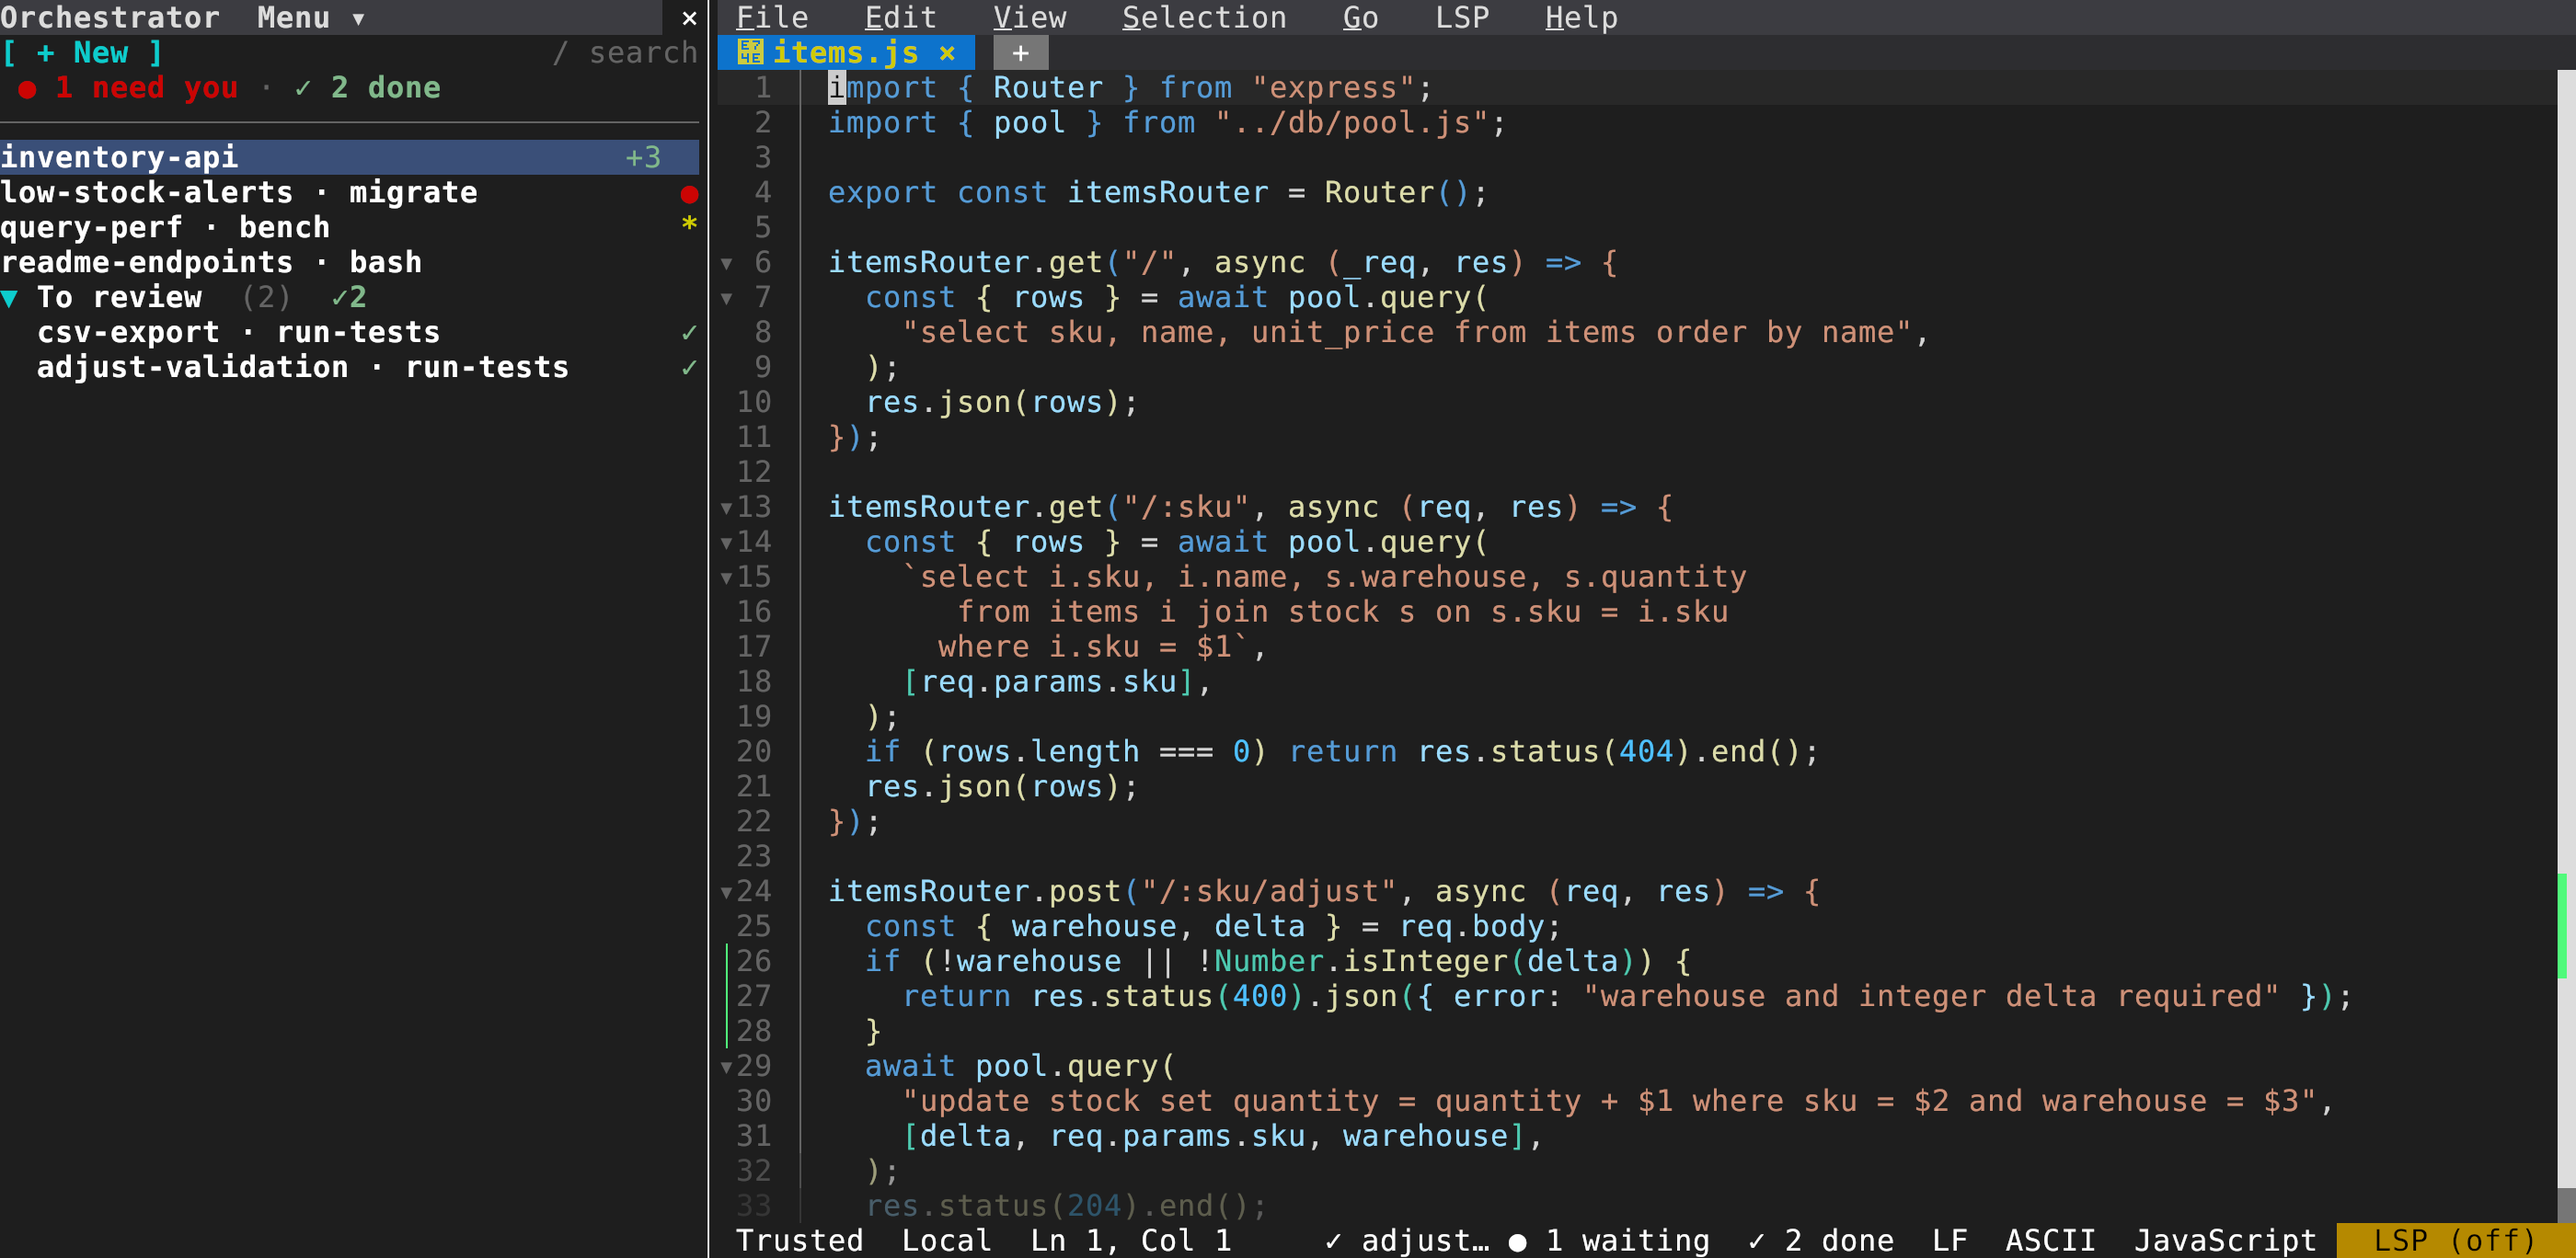
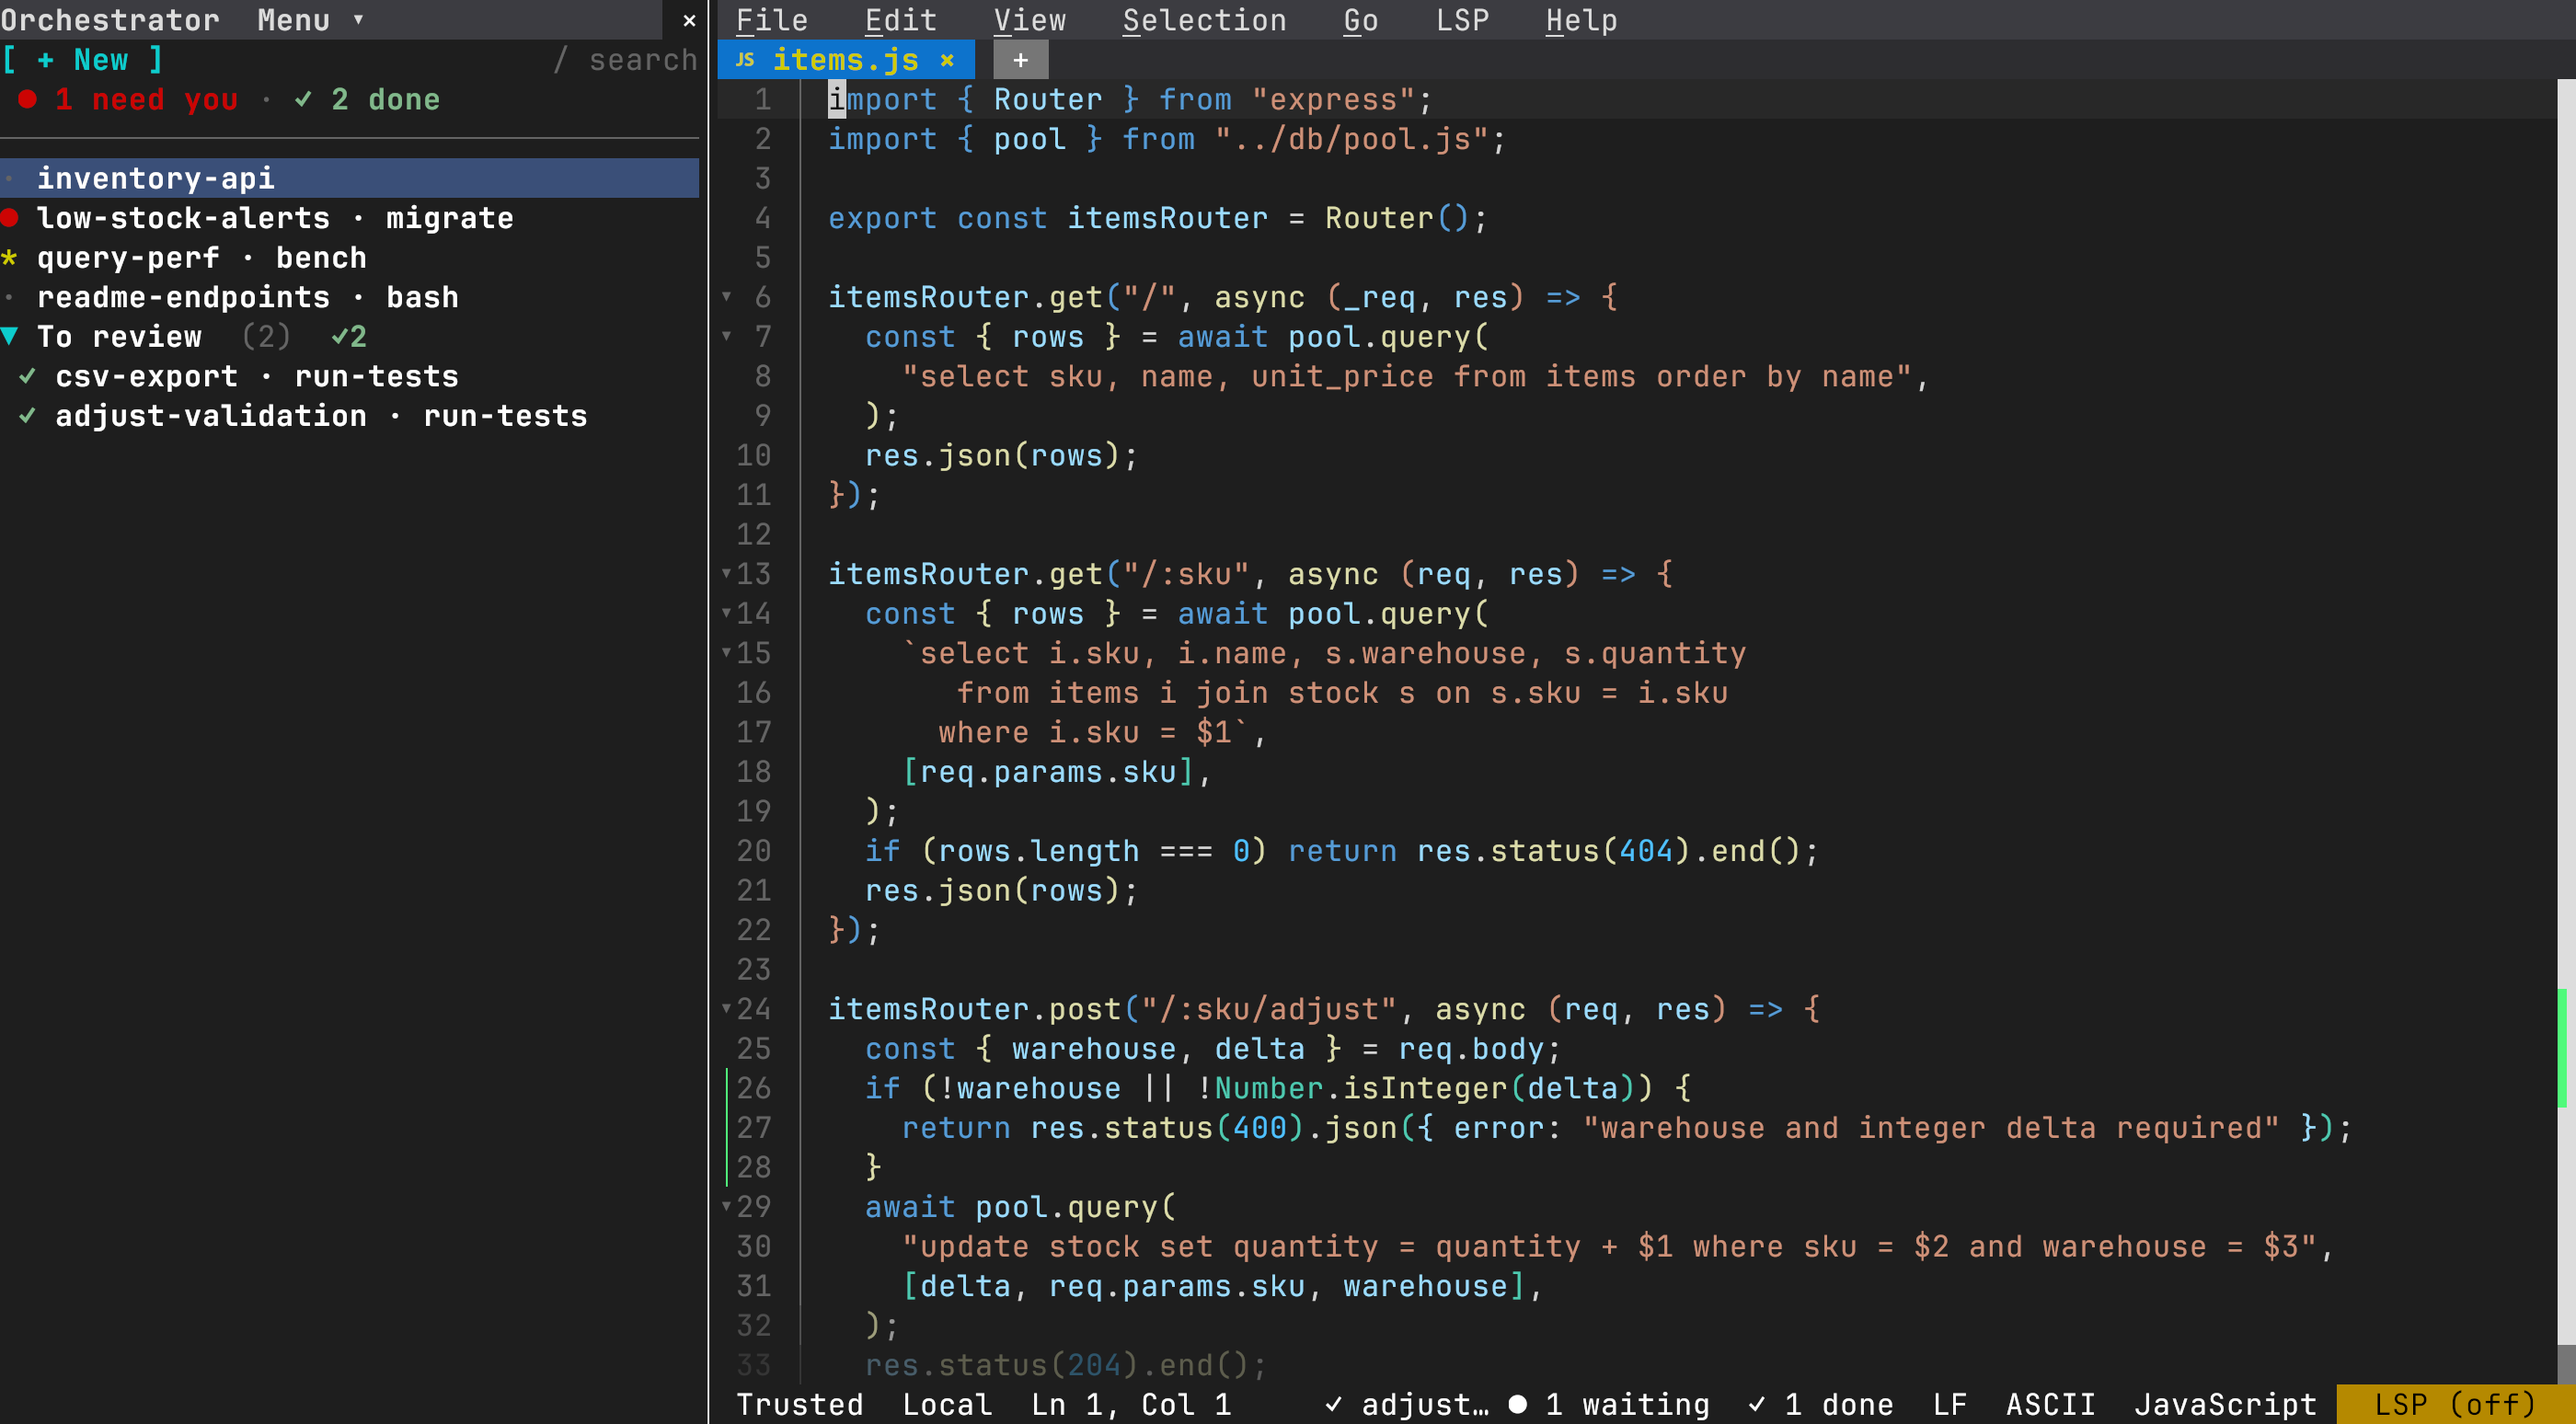
Orchestrator dock: headings in their own subdued theme key
The dock's headings (Pinned, the By date groups, folders, the external
sessions' groups) were drawn in the rows' bold ink, so they competed with
the workspace names they organise.

New theme key `ui.dock_heading_fg`, used for heading names. It is optional
in theme files and falls back to `editor.line_number_fg` — the gutter's
own subdued grey in every built-in theme — and follows that key through an
`extends` override, like `ui.file_explorer_directory_fg` follows
`syntax.keyword`. The theme editor names it in all 15 locales; the theme
schema is regenerated.

Claude-Session: https://claude.ai/code/session_01LCVsbjgPmtEQSYk6wLruH4

diff --git a/crates/fresh-editor/plugins/orchestrator.ts b/crates/fresh-editor/plugins/orchestrator.ts
@@ -2651,8 +2651,12 @@ function folderNodeEntry(
   count: number,
   rollup: { blocked: number; done: number } = { blocked: 0, done: 0 },
 ): TextPropertyEntry {
+  // Headings in a subdued colour of their own (`ui.dock_heading_fg`, which
+  // falls back to the gutter's grey): they organise the list rather than
+  // being entries in it, and leave the workspace names and the state column
+  // to carry the eye.
   const segs: Entry[] = [
-    { text: f.name, style: { bold: true } },
+    { text: f.name, style: { bold: true, fg: "ui.dock_heading_fg" } },
   ];
   if (count > 0) {
     segs.push({ text: `  (${count})`, style: { fg: "ui.menu_disabled_fg" } });

diff --git a/crates/fresh-editor-core/src/theme/types.rs b/crates/fresh-editor-core/src/theme/types.rs
@@ -1415,6 +1415,12 @@ pub struct UiColors {
     /// without also recoloring code keywords.
     #[serde(default)]
     pub file_explorer_directory_fg: Option<StyledColorDef>,
+    /// Heading text in the Orchestrator dock: Pinned, the By date headings
+    /// and folder names. Falls back to `editor.line_number_fg`, so headings
+    /// sit back as the gutter does and leave the workspace names to carry
+    /// the eye.
+    #[serde(default)]
+    pub dock_heading_fg: Option<StyledColorDef>,
     /// Background of the file explorer panel: its rows, title row and
     /// border. Falls back to `editor.bg`.
     #[serde(default)]
@@ -1773,6 +1779,8 @@ pub struct Theme {
     pub file_explorer_pinned_bg: Color,
     /// Name color of an ordinary directory in the file explorer.
     pub file_explorer_directory_fg: Color,
+    /// Heading text in the Orchestrator dock.
+    pub dock_heading_fg: Color,
     /// The file explorer panel's ground and default text color.
     pub file_explorer_bg: Color,
     pub file_explorer_fg: Color,
@@ -2036,6 +2044,7 @@ impl From<ThemeFile> for Theme {
             file_status_conflicted_fg: styled_color(&file.ui.file_status_conflicted_fg),
             file_explorer_pinned_bg: styled_color(&file.ui.file_explorer_pinned_bg),
             file_explorer_directory_fg: styled_color(&file.ui.file_explorer_directory_fg),
+            dock_heading_fg: styled_color(&file.ui.dock_heading_fg),
             file_explorer_bg: styled_color(&file.ui.file_explorer_bg),
             file_explorer_fg: styled_color(&file.ui.file_explorer_fg),
             file_explorer_border_fg: styled_color(&file.ui.file_explorer_border_fg),
@@ -2252,6 +2261,7 @@ impl From<Theme> for ThemeFile {
                 file_status_conflicted_fg: styled(&theme, "ui.file_status_conflicted_fg"),
                 file_explorer_pinned_bg: styled(&theme, "ui.file_explorer_pinned_bg"),
                 file_explorer_directory_fg: styled(&theme, "ui.file_explorer_directory_fg"),
+                dock_heading_fg: styled(&theme, "ui.dock_heading_fg"),
                 file_explorer_bg: styled(&theme, "ui.file_explorer_bg"),
                 file_explorer_fg: styled(&theme, "ui.file_explorer_fg"),
                 file_explorer_border_fg: styled(&theme, "ui.file_explorer_border_fg"),
@@ -2535,6 +2545,7 @@ fn apply_theme_overrides(theme: &mut Theme, theme_file: &ThemeFile, raw: &serde_
 /// an `extends` override when the base theme gave them no color of their own.
 const KEYS_FOLLOWING_FALLBACK_ACROSS_EXTENDS: &[&str] = &[
     "ui.file_explorer_directory_fg",
+    "ui.dock_heading_fg",
     "editor.line_number_bg",
     "editor.gutter_separator_fg",
     "ui.file_explorer_bg",
@@ -3143,6 +3154,7 @@ theme_color_keys! {
         "blame_header_bg" => color blame_header_bg fallback "ui.menu_bg",
         "blame_header_fg" => color blame_header_fg fallback "ui.menu_fg",
         "compose_margin_bg" => color compose_margin_bg fallback "editor.after_eof_bg",
+        "dock_heading_fg" => color dock_heading_fg fallback "editor.line_number_fg",
         "file_explorer_bg" => color file_explorer_bg fallback "editor.bg",
         "file_explorer_border_fg" => color file_explorer_border_fg fallback "ui.split_separator_fg",
         "file_explorer_border_focused_fg" => color file_explorer_border_focused_fg fallback "editor.cursor",
@@ -4604,6 +4616,37 @@ mod tests {
             styled.resolve_modifier_key("editor.current_line_number_fg"),
             Modifier::BOLD
         );
+    }
+
+    /// The dock's headings have a key of their own: a theme that leaves it
+    /// out gets the gutter's subdued grey (`editor.line_number_fg`), and one
+    /// that sets it recolors headings alone.
+    #[test]
+    fn dock_heading_fg_falls_back_to_the_gutter() {
+        for builtin in BUILTIN_THEMES {
+            let raw: serde_json::Value = serde_json::from_str(builtin.json).unwrap();
+            if names_key(&raw, "ui.dock_heading_fg") {
+                continue;
+            }
+            let theme = Theme::from_json(builtin.json).unwrap();
+            assert_eq!(
+                theme.dock_heading_fg, theme.line_number_fg,
+                "Theme '{}' dock heading color",
+                builtin.name
+            );
+        }
+        let theme = Theme::from_json(
+            r#"{"name": "headings", "extends": "builtin://dark",
+                "ui": {"dock_heading_fg": [150, 160, 170]}}"#,
+        )
+        .unwrap();
+        assert_eq!(theme.dock_heading_fg, Color::Rgb(150, 160, 170));
+        let theme = Theme::from_json(
+            r#"{"name": "gutter", "extends": "builtin://dark",
+                "editor": {"line_number_fg": [90, 91, 92]}}"#,
+        )
+        .unwrap();
+        assert_eq!(theme.dock_heading_fg, Color::Rgb(90, 91, 92));
     }
 
     /// Explorer folder names have a key of their own (#3697): a theme that
